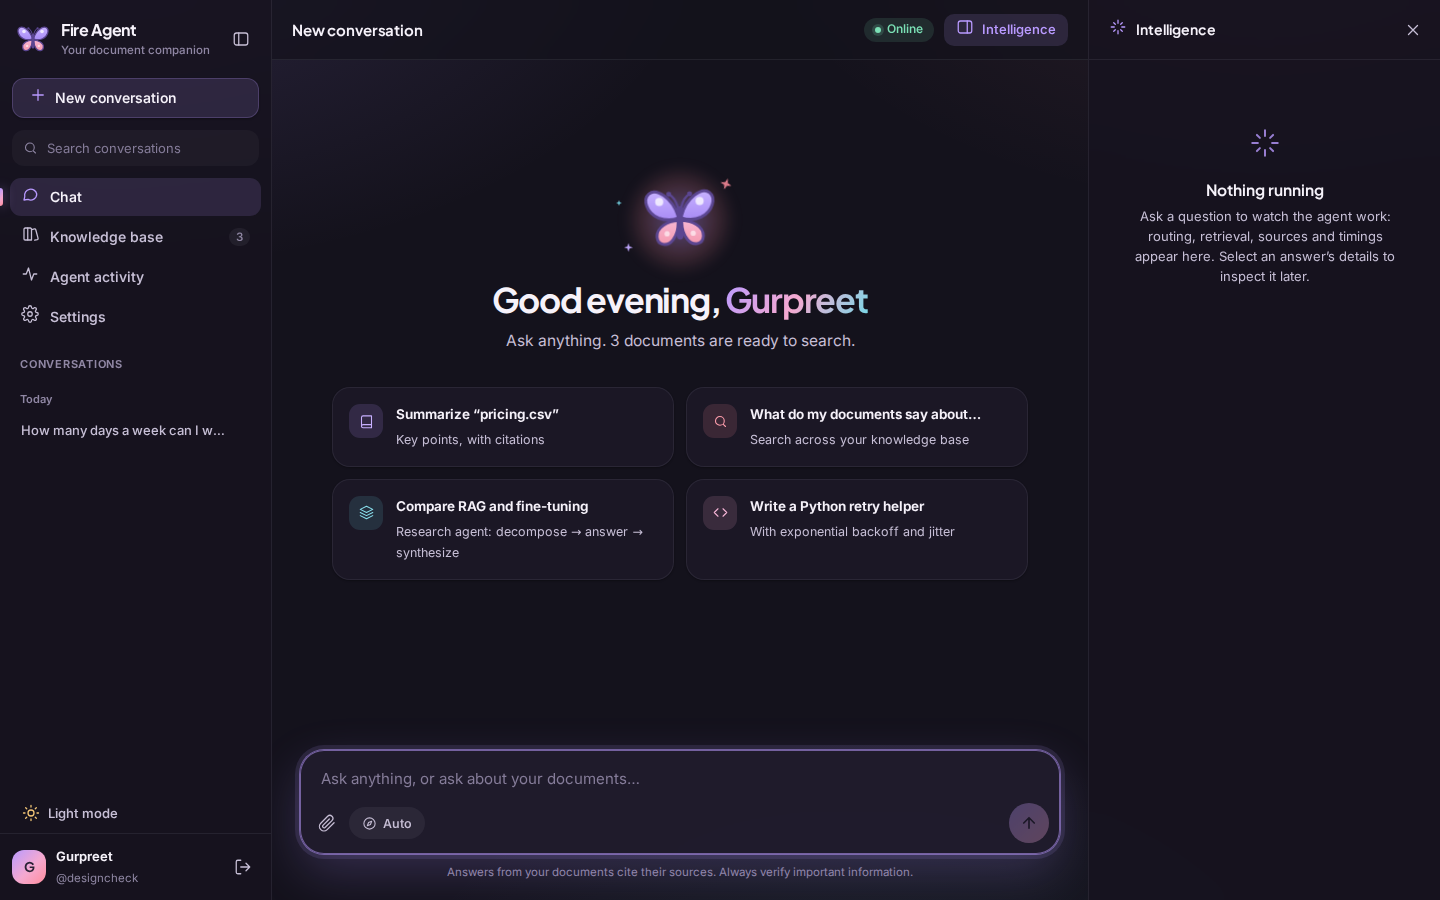
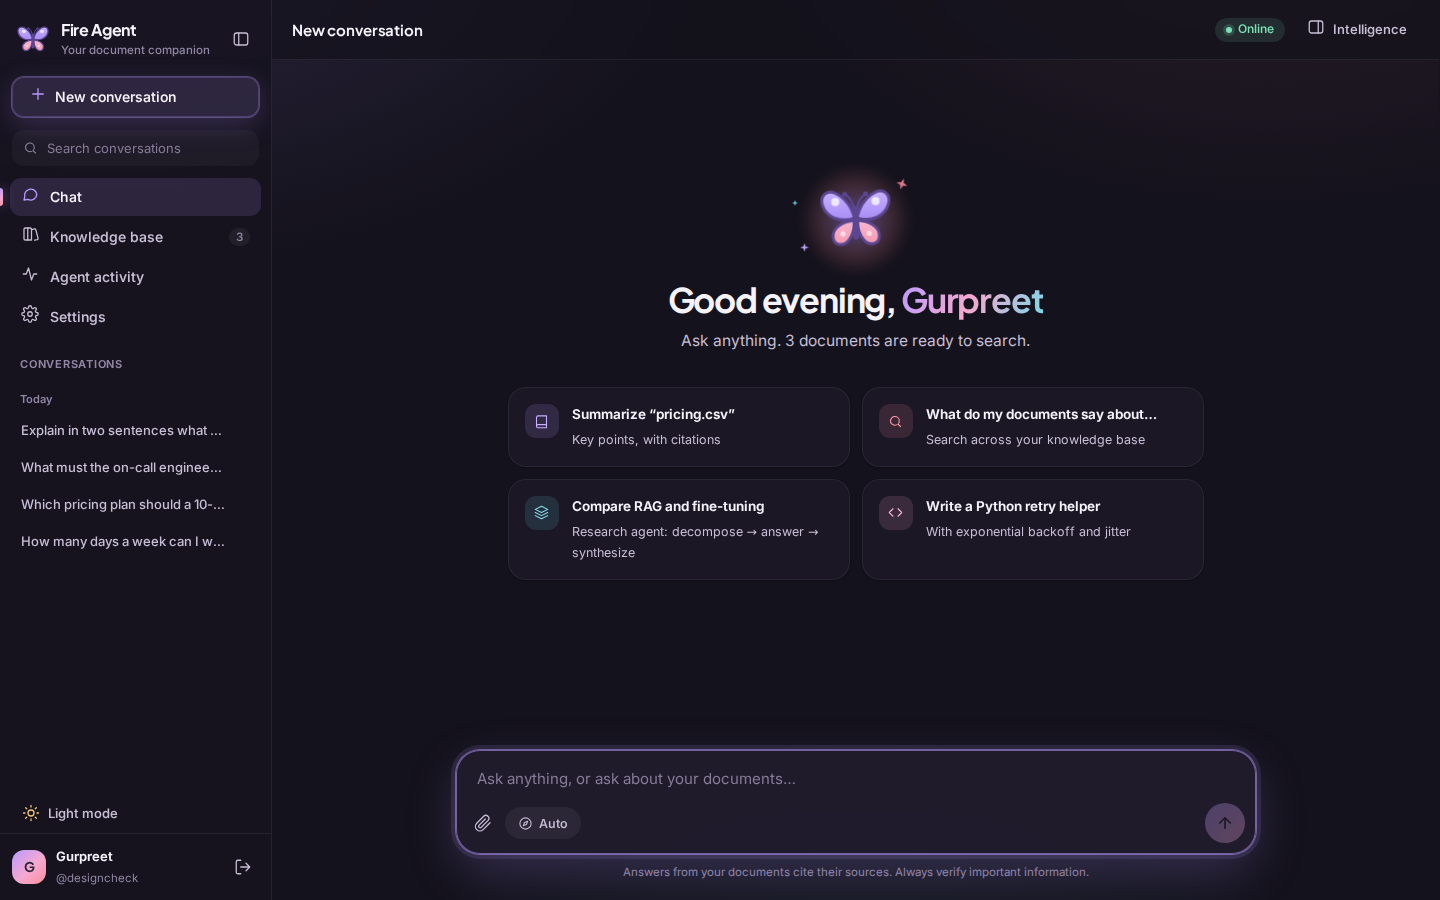
README: light and dark screenshots of every screen, design section
- Screenshots of the welcome screen, cited answer with the Intelligence
  panel, knowledge base, agent activity, settings, Evaluation Center,
  trace detail, sign-in and phone layouts, each in light and dark
- New Design section (themes, toggle, butterfly identity, tokens, fonts,
  accessibility); test count updated
- Evaluation Center: fix overlapping execution-flow chips in trace detail
  and long values overflowing their tiles

diff --git a/static/css/eval.css b/static/css/eval.css
@@ -66,3 +66,8 @@ table.data tr.click:hover td, table.data tr.click:focus td { background: var(--s
 :root[data-theme="dark"] #evalView .card { background: rgba(33, 28, 45, 0.6); }
 :root[data-theme="dark"] #evalView { --s1: #B99AFF; --s2: #FF8D9D; --s3: #76D9E8; --s4: #F5C778; }
 #evalView { --s1: #7556D6; --s2: #D0607E; --s3: #2D8DA0; --s4: #B0721A; }
+/* the Evaluation Center's execution "flow" chips share the .step class with the Intelligence panel's timeline;
+   undo the panel's grid layout and connector line here */
+#evalView .flow .step { display: inline-block; padding: 8px 12px; }
+#evalView .flow .step::before { display: none; }
+#evalView .tile .v { overflow-wrap: anywhere; }

diff --git a/README.md b/README.md
@@ -9,20 +9,41 @@ direct answer, and every run is traced and automatically evaluated.
 
 All model calls go through **Fire** (`/v1/chat`, `/v1/chat/stream`, `/v1/embed`); vectors live in **PostgreSQL + pgvector**.
 
-![Chat with a cited answer and the live Intelligence panel](docs/img/chat-rag.png)
+![Fire Agent: a cited answer with the live Intelligence panel (light theme)](docs/img/chat-light.png)
 
-### Light and dark themes
+## Screenshots
 
-A soft pastel light theme (the default) and a midnight-plum dark theme, switchable from the sidebar and remembered per browser.
+Every screen comes in a soft pastel **light theme** (the default) and a midnight-plum **dark theme**.
 
-| Light | Dark |
-|---|---|
-| ![Welcome screen, light theme](docs/img/welcome-light.png) | ![Welcome screen, dark theme](docs/img/welcome-dark.png) |
-| ![Cited answer, light theme](docs/img/chat-rag.png) | ![Cited answer, dark theme](docs/img/chat-rag-dark.png) |
-
-| Sign in | Phone (light) | Phone (dark) |
+| Screen | Light | Dark |
 |---|---|---|
-| ![Sign-in screen](docs/img/sign-in.png) | ![Welcome on a phone](docs/img/mobile-welcome-light.png) | ![Cited answer on a phone](docs/img/mobile-chat-dark.png) |
+| **Welcome** | ![Welcome, light theme](docs/img/welcome-light.png) | ![Welcome, dark theme](docs/img/welcome-dark.png) |
+| **Answer with citations + Intelligence panel** | ![Answer with citations + Intelligence panel, light theme](docs/img/chat-light.png) | ![Answer with citations + Intelligence panel, dark theme](docs/img/chat-dark.png) |
+| **Knowledge base** | ![Knowledge base, light theme](docs/img/knowledge-base-light.png) | ![Knowledge base, dark theme](docs/img/knowledge-base-dark.png) |
+| **Agent activity** | ![Agent activity, light theme](docs/img/activity-light.png) | ![Agent activity, dark theme](docs/img/activity-dark.png) |
+| **Settings** | ![Settings, light theme](docs/img/settings-light.png) | ![Settings, dark theme](docs/img/settings-dark.png) |
+| **AI Evaluation Center** | ![AI Evaluation Center, light theme](docs/img/evaluation-center-light.png) | ![AI Evaluation Center, dark theme](docs/img/evaluation-center-dark.png) |
+| **Evaluation trace detail** | ![Evaluation trace detail, light theme](docs/img/trace-detail-light.png) | ![Evaluation trace detail, dark theme](docs/img/trace-detail-dark.png) |
+| **Sign in** | ![Sign in, light theme](docs/img/sign-in-light.png) | ![Sign in, dark theme](docs/img/sign-in-dark.png) |
+
+**On a phone**
+
+| Welcome (light) | Answer (light) | Welcome (dark) | Answer (dark) |
+|---|---|---|---|
+| ![Phone welcome, light](docs/img/phone-welcome-light.png) | ![Phone answer, light](docs/img/phone-chat-light.png) | ![Phone welcome, dark](docs/img/phone-welcome-dark.png) | ![Phone answer, dark](docs/img/phone-chat-dark.png) |
+
+## Design
+
+- **Two themes with different personalities.** Light: warm ivory, lavender, pink, powder blue and peach, soft shadows.
+  Dark: deep midnight plum with luminous lavender, coral and cyan accents, ambient gradients and glowing focus states.
+- **Theme toggle** at the bottom of the sidebar (and on the sign-in page). The choice is remembered per browser and
+  applied before the first paint, so there is no flash of the wrong theme.
+- **Identity**: a small lavender butterfly as the logo and favicon (readable at 16 px on light and dark tabs).
+- **Built on design tokens**: every colour is a CSS variable in `static/css/app.css` (`:root` for light,
+  `:root[data-theme="dark"]` for dark), so all screens, including the Evaluation Center charts, follow the theme.
+- **Typography**: Plus Jakarta Sans for headings, Inter for text, both self-hosted.
+- **Details**: message entrance animations, a typing indicator while the agent works, gentle hover lifts, a responsive
+  sidebar drawer on phones; text colours meet WCAG AA contrast and animations switch off with `prefers-reduced-motion`.
 
 ## What's inside
 
@@ -39,10 +60,6 @@ A soft pastel light theme (the default) and a midnight-plum dark theme, switchab
   **Agent activity** (execution timelines, model and tool latency, tokens, errors) and **Settings**.
 - **AI Evaluation Center** (admin, from the original project): LLM-judge faithfulness, relevance, groundedness, citation
   accuracy, tool accuracy, hallucination and safety for every request, trends, regression suites → [docs/evaluation.md](docs/evaluation.md).
-
-| Knowledge base | Agent activity |
-|---|---|
-| ![Knowledge base](docs/img/knowledge-base.png) | ![Agent activity](docs/img/activity.png) |
 
 ## Install
 
@@ -85,7 +102,7 @@ Migrations run automatically at startup (`EVAL_AUTO_MIGRATE=true`). To run them 
 .venv/bin/uvicorn app.main:app --port 8000
 ```
 
-Open http://localhost:8000 in your browser (the live version runs at **https://agent.papillon.website**), create an account (enter the invite code if `AGENT_ACCESS_TOKEN` is set), upload documents
+Open http://localhost:8000 in your browser, create an account (enter the invite code if `AGENT_ACCESS_TOKEN` is set), upload documents
 under **Knowledge base**, and ask away. Indexing runs in the background inside the API process.
 
 ## Environment variables
@@ -110,7 +127,7 @@ All documented in [.env.example](.env.example). The important ones:
 ## Tests
 
 ```bash
-.venv/bin/python -m pytest      # 156 tests (2 need PostgreSQL); LLM and embeddings faked, no network
+.venv/bin/python -m pytest      # 160 tests (2 need PostgreSQL); LLM and embeddings faked, no network
 TEST_PG_URL="postgresql+psycopg://agent@/agent_test?host=..." .venv/bin/python -m pytest tests/test_pgvector.py   # real pgvector
 ```
 
